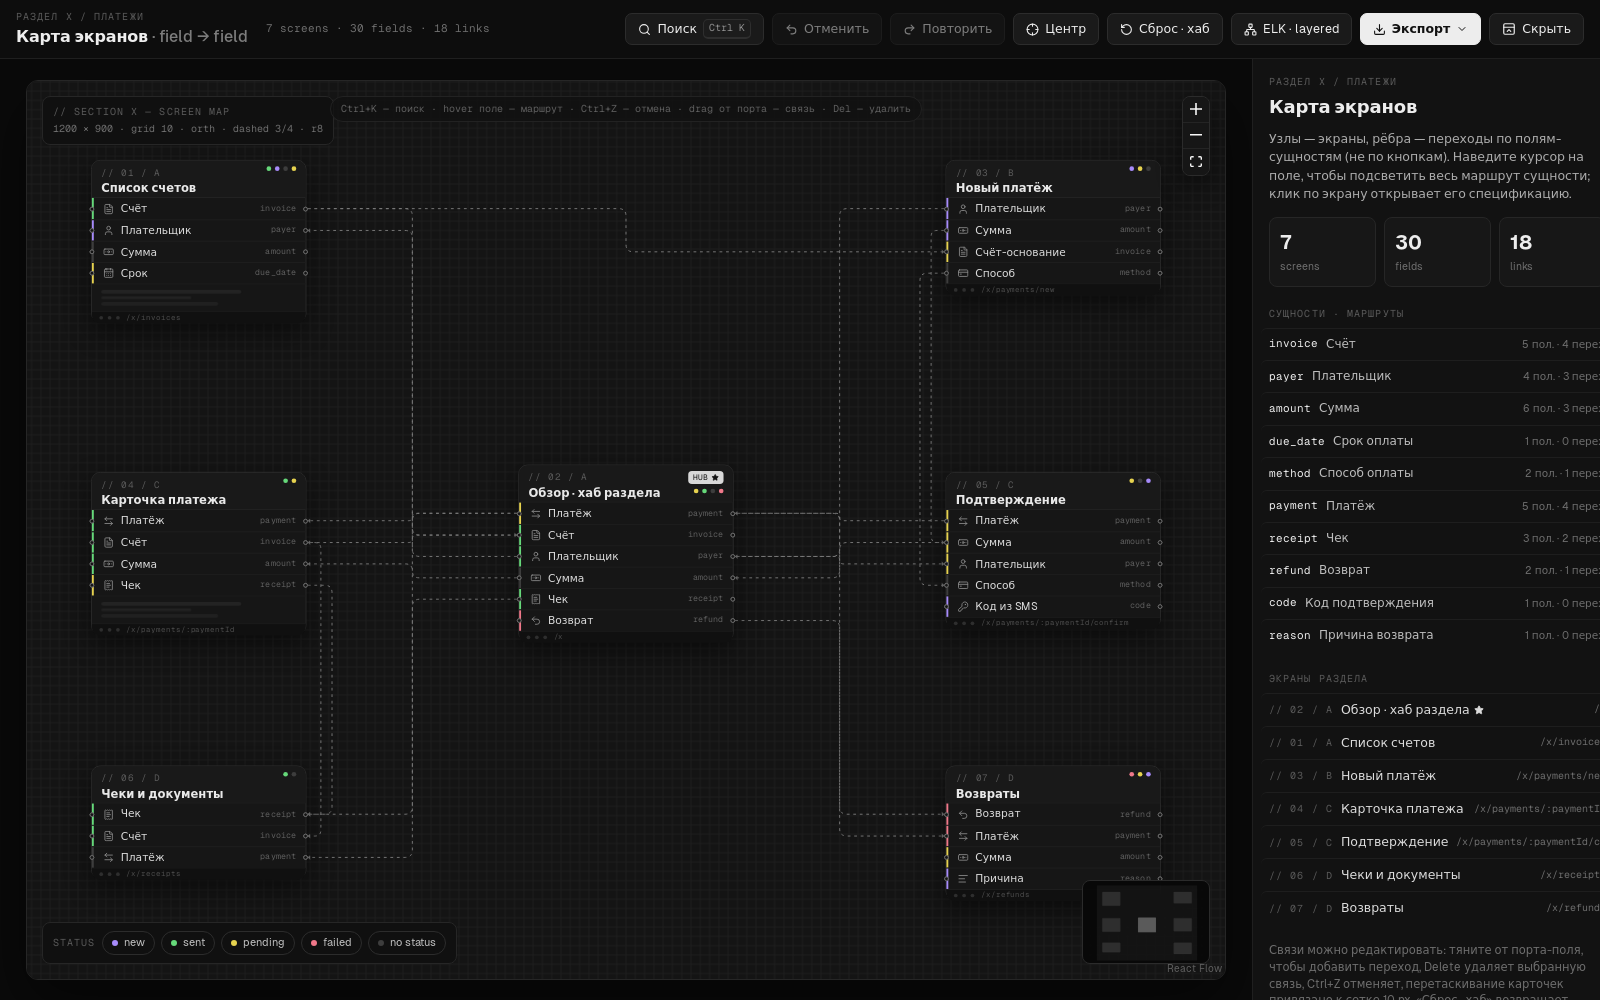
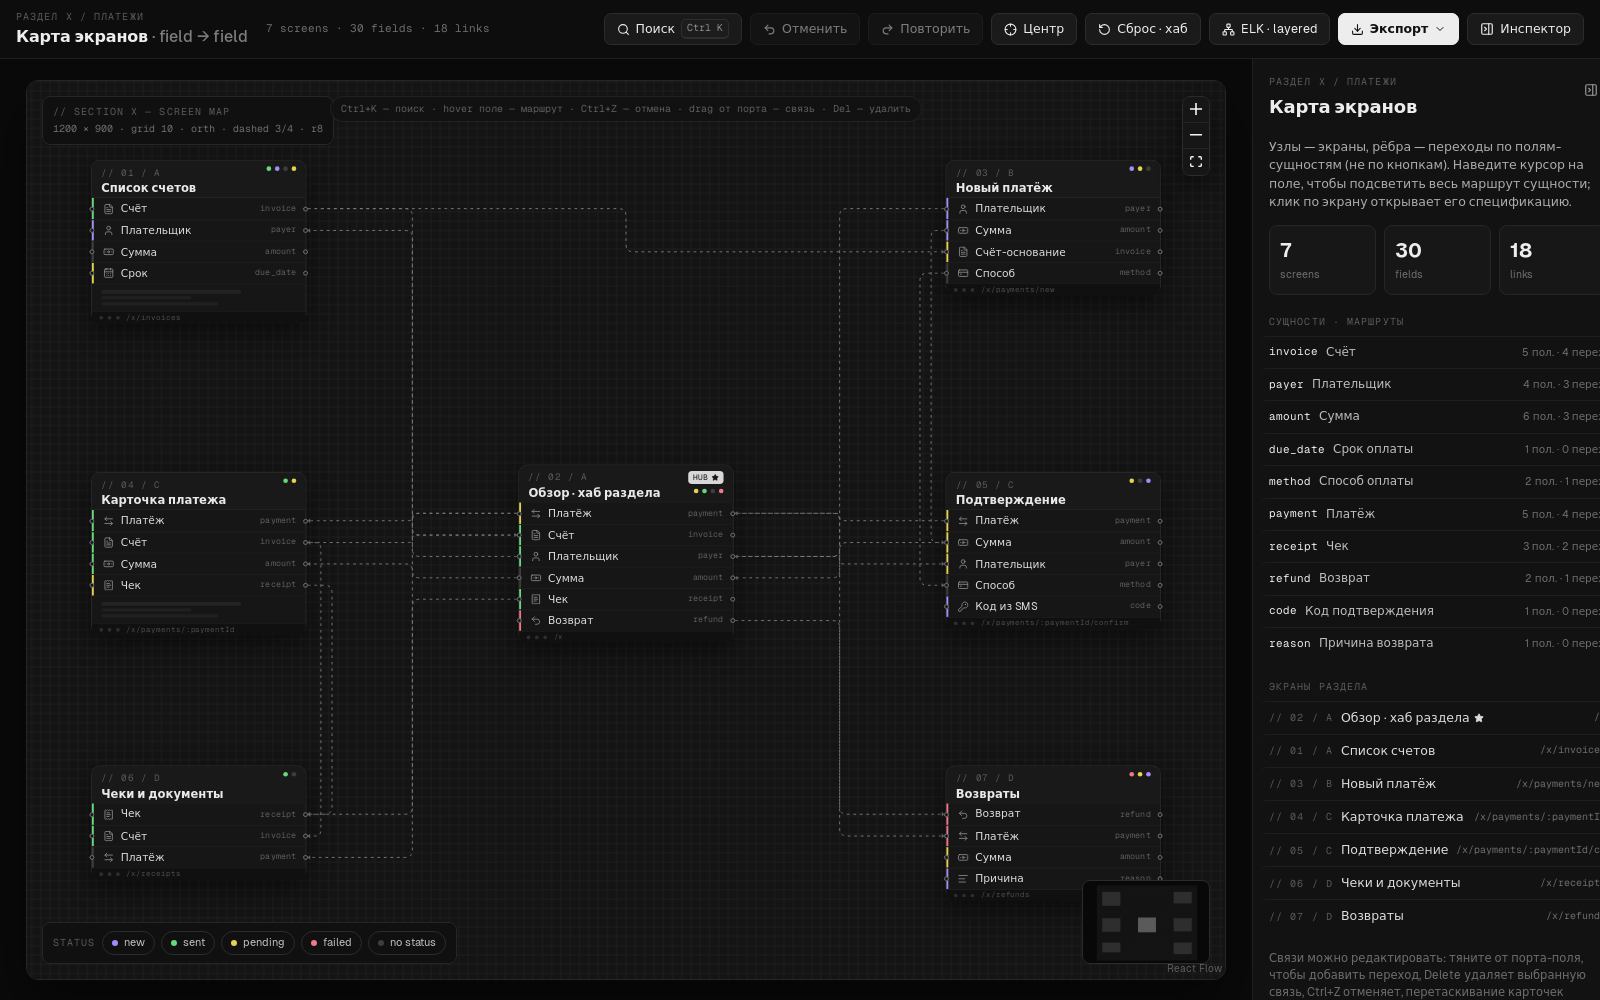
fix(ui): make right inspector collapsible

diff --git a/src/features/screen-map/ui/Toolbar.tsx b/src/features/screen-map/ui/Toolbar.tsx
@@ -8,8 +8,8 @@ import {
   FileBraces,
   Keyboard,
   Network,
-  PanelTopClose,
-  PanelTopOpen,
+  PanelRightClose,
+  PanelRightOpen,
   Redo2,
   RotateCcw,
   Search,
@@ -30,8 +30,8 @@ const FIELDS_TOTAL = SCREENS.reduce((n, s) => n + s.fields.length, 0);
  * @returns the header bar
  */
 export function Toolbar(): ReactElement {
-  const headerVisible = useMapStore((s) => s.headerVisible);
-  const toggleHeader = useMapStore((s) => s.toggleHeader);
+  const inspectorVisible = useMapStore((s) => s.inspectorVisible);
+  const toggleInspector = useMapStore((s) => s.toggleInspector);
   const centerMap = useMapStore((s) => s.centerMap);
   const links = useMapStore((s) => s.edges.length);
   const pinnedEntity = useMapStore((s) => s.pinnedEntity);
@@ -52,19 +52,6 @@ export function Toolbar(): ReactElement {
     const copied = await copyJSON();
     notify(copied ? "JSON скопирован в буфер обмена" : "Не удалось скопировать JSON");
   };
-
-  if (!headerVisible) {
-    return (
-      <button
-        className="btn header-restore"
-        onClick={toggleHeader}
-        aria-label="Показать верхнюю панель"
-        title="Показать верхнюю панель"
-      >
-        <PanelTopOpen size={14} aria-hidden /> Панель
-      </button>
-    );
-  }
 
   return (
     <header className="topbar">
@@ -133,8 +120,15 @@ export function Toolbar(): ReactElement {
             </Menu.Positioner>
           </Menu.Portal>
         </Menu.Root>
-        <button className="btn" onClick={toggleHeader} aria-label="Скрыть верхнюю панель" title="Скрыть верхнюю панель">
-          <PanelTopClose size={14} aria-hidden /> Скрыть
+        <button
+          className="btn inspector-toggle"
+          onClick={toggleInspector}
+          aria-pressed={inspectorVisible}
+          aria-label={inspectorVisible ? "Скрыть правую панель" : "Показать правую панель"}
+          title={inspectorVisible ? "Скрыть правую панель" : "Показать правую панель"}
+        >
+          {inspectorVisible ? <PanelRightClose size={14} aria-hidden /> : <PanelRightOpen size={14} aria-hidden />}
+          Инспектор
         </button>
       </div>
     </header>

diff --git a/src/features/screen-map/model/uiSlice.ts b/src/features/screen-map/model/uiSlice.ts
@@ -2,20 +2,20 @@ import { getFlowInstance } from "./flowRef";
 import { applySilently } from "./history";
 import type { MapSliceCreator, UiSlice } from "./types";
 
-const HEADER_STORAGE_KEY = "screen-map-x:header-visible";
+const INSPECTOR_STORAGE_KEY = "screen-map-x:inspector-visible";
 
-function readHeaderVisible(): boolean {
+function readInspectorVisible(): boolean {
   try {
-    return typeof localStorage === "undefined" || localStorage.getItem(HEADER_STORAGE_KEY) !== "hidden";
+    return typeof localStorage === "undefined" || localStorage.getItem(INSPECTOR_STORAGE_KEY) !== "hidden";
   } catch {
     return true;
   }
 }
 
-function writeHeaderVisible(visible: boolean): void {
+function writeInspectorVisible(visible: boolean): void {
   try {
     if (typeof localStorage !== "undefined") {
-      localStorage.setItem(HEADER_STORAGE_KEY, visible ? "visible" : "hidden");
+      localStorage.setItem(INSPECTOR_STORAGE_KEY, visible ? "visible" : "hidden");
     }
   } catch {
     // Storage can be unavailable in private or restricted browser contexts.
@@ -33,7 +33,7 @@ export const createUiSlice: MapSliceCreator<UiSlice> = (set, get) => {
   };
 
   return {
-    headerVisible: readHeaderVisible(),
+    inspectorVisible: readInspectorVisible(),
     hoverEntity: null,
     pinnedEntity: null,
     statusFilter: null,
@@ -43,11 +43,11 @@ export const createUiSlice: MapSliceCreator<UiSlice> = (set, get) => {
     helpOpen: false,
     contextTarget: null,
 
-    setHeaderVisible: (headerVisible) => {
-      writeHeaderVisible(headerVisible);
-      set({ headerVisible });
+    setInspectorVisible: (inspectorVisible) => {
+      writeInspectorVisible(inspectorVisible);
+      set({ inspectorVisible });
     },
-    toggleHeader: () => get().setHeaderVisible(!get().headerVisible),
+    toggleInspector: () => get().setInspectorVisible(!get().inspectorVisible),
     centerMap: () => {
       void getFlowInstance()?.fitView({ padding: 0.12, maxZoom: 1, duration: 350 });
     },

diff --git a/src/features/screen-map/ui/inspector/InspectorScreen.tsx b/src/features/screen-map/ui/inspector/InspectorScreen.tsx
@@ -1,5 +1,5 @@
 import { useMemo, type ReactElement } from "react";
-import { X } from "../../../../shared/icons";
+import { PanelRightClose, X } from "../../../../shared/icons";
 import { STATUS } from "../../data/status";
 import type { ScreenDef } from "../../data/types";
 import { defOf } from "../../flow/adapter";
@@ -17,6 +17,7 @@ export function InspectorScreen({ screen }: { screen: ScreenDef }): ReactElement
   const activeEntity = useMapStore(selectActiveEntity);
   const setHoverEntity = useMapStore((s) => s.setHoverEntity);
   const setSelected = useMapStore((s) => s.setSelected);
+  const toggleInspector = useMapStore((s) => s.toggleInspector);
   const defs = useMemo(() => edges.map(defOf), [edges]);
   const incoming = defs.filter((e) => e.to.screen === screen.id);
   const outgoing = defs.filter((e) => e.from.screen === screen.id);
@@ -31,9 +32,23 @@ export function InspectorScreen({ screen }: { screen: ScreenDef }): ReactElement
           </div>
           <h2 className="insp-h">{screen.title}</h2>
         </div>
-        <button className="btn btn-ghost insp-close" onClick={() => setSelected(null)} title="Закрыть (клик по холсту)">
-          <X size={13} aria-hidden />
-        </button>
+        <div className="insp-actions">
+          <button
+            className="btn btn-ghost insp-close inspector-collapse"
+            onClick={toggleInspector}
+            aria-label="Скрыть правую панель"
+            title="Скрыть правую панель"
+          >
+            <PanelRightClose size={14} aria-hidden />
+          </button>
+          <button
+            className="btn btn-ghost insp-close"
+            onClick={() => setSelected(null)}
+            title="Закрыть (клик по холсту)"
+          >
+            <X size={13} aria-hidden />
+          </button>
+        </div>
       </div>
 
       <div className="route-chip">{screen.route}</div>

diff --git a/src/features/screen-map/ui/inspector/InspectorOverview.tsx b/src/features/screen-map/ui/inspector/InspectorOverview.tsx
@@ -1,6 +1,6 @@
 import { PreviewCard } from "@base-ui/react/preview-card";
 import { useMemo, type ReactElement } from "react";
-import { Star } from "../../../../shared/icons";
+import { PanelRightClose, Star } from "../../../../shared/icons";
 import { SECTION_PATH } from "../../data/constants";
 import { ENTITY_META } from "../../data/entities";
 import { SCREENS } from "../../data/screens";
@@ -20,6 +20,7 @@ export function InspectorOverview(): ReactElement {
   const setHoverEntity = useMapStore((s) => s.setHoverEntity);
   const togglePin = useMapStore((s) => s.togglePin);
   const focusScreen = useMapStore((s) => s.focusScreen);
+  const toggleInspector = useMapStore((s) => s.toggleInspector);
 
   const defs = useMemo(() => edges.map(defOf), [edges]);
   const fieldsTotal = SCREENS.reduce((n, s) => n + s.fields.length, 0);
@@ -31,8 +32,20 @@ export function InspectorOverview(): ReactElement {
 
   return (
     <>
-      <div className="mono-label">{SECTION_PATH}</div>
-      <h2 className="insp-h">Карта экранов</h2>
+      <div className="insp-top">
+        <div>
+          <div className="mono-label">{SECTION_PATH}</div>
+          <h2 className="insp-h">Карта экранов</h2>
+        </div>
+        <button
+          className="btn btn-ghost insp-close inspector-collapse"
+          onClick={toggleInspector}
+          aria-label="Скрыть правую панель"
+          title="Скрыть правую панель"
+        >
+          <PanelRightClose size={14} aria-hidden />
+        </button>
+      </div>
       <p className="insp-p">
         Узлы — экраны, рёбра — переходы по полям-сущностям (не по кнопкам). Наведите курсор на поле, чтобы подсветить
         весь маршрут сущности; клик по экрану открывает его спецификацию.

diff --git a/src/features/screen-map/hooks/usePaletteActions.ts b/src/features/screen-map/hooks/usePaletteActions.ts
@@ -5,8 +5,8 @@ import {
   FileBraces,
   Keyboard,
   Network,
-  PanelTopClose,
-  PanelTopOpen,
+  PanelRightClose,
+  PanelRightOpen,
   Redo2,
   RotateCcw,
   Undo2,
@@ -35,8 +35,8 @@ export function usePaletteActions(): PaletteAction[] {
   const redo = useMapStore((s) => s.redo);
   const setJsonDialogOpen = useMapStore((s) => s.setJsonDialogOpen);
   const setHelpOpen = useMapStore((s) => s.setHelpOpen);
-  const headerVisible = useMapStore((s) => s.headerVisible);
-  const toggleHeader = useMapStore((s) => s.toggleHeader);
+  const inspectorVisible = useMapStore((s) => s.inspectorVisible);
+  const toggleInspector = useMapStore((s) => s.toggleInspector);
   const centerMap = useMapStore((s) => s.centerMap);
   const { downloadJSON, copyJSON } = useExport();
 
@@ -48,10 +48,10 @@ export function usePaletteActions(): PaletteAction[] {
       run: centerMap,
     },
     {
-      value: "панель заголовок скрыть показать верхняя панель header",
-      label: headerVisible ? "Скрыть верхнюю панель" : "Показать верхнюю панель",
-      icon: headerVisible ? PanelTopClose : PanelTopOpen,
-      run: toggleHeader,
+      value: "инспектор правая панель скрыть показать inspector panel",
+      label: inspectorVisible ? "Скрыть правую панель" : "Показать правую панель",
+      icon: inspectorVisible ? PanelRightClose : PanelRightOpen,
+      run: toggleInspector,
     },
     {
       value: "elk раскладка layered layout",

diff --git a/tests/e2e/screen-map.spec.ts b/tests/e2e/screen-map.spec.ts
@@ -77,12 +77,13 @@ test.describe("section X screen map", () => {
     await expect(page.locator(".react-flow__edge")).toHaveCount(18);
   });
 
-  test("top bar can be hidden and restored while the canvas stays centred", async ({ page }) => {
-    await page.getByRole("button", { name: "Скрыть верхнюю панель" }).click();
-    await expect(page.locator(".app-title")).toHaveCount(0);
+  test("right inspector can be hidden and restored while the canvas stays centred", async ({ page }) => {
+    await expect(page.locator(".app-title")).toContainText("Карта экранов");
+    await expect(page.locator(".inspector .insp-h")).toHaveText("Карта экранов");
 
-    const restore = page.getByRole("button", { name: "Показать верхнюю панель" });
-    await expect(restore).toBeVisible();
+    await page.locator(".inspector-collapse").click();
+    await expect(page.locator(".inspector")).toHaveCount(0);
+    await expect(page.locator(".app-title")).toBeVisible();
 
     const centreDelta = await page.evaluate(() => {
       const scroll = document.querySelector(".canvas-scroll");
@@ -96,7 +97,7 @@ test.describe("section X screen map", () => {
     });
     expect(centreDelta).toBeLessThan(24);
 
-    await restore.click();
-    await expect(page.locator(".app-title")).toContainText("Карта экранов");
+    await page.locator(".inspector-toggle").click();
+    await expect(page.locator(".inspector .insp-h")).toHaveText("Карта экранов");
   });
 });

diff --git a/src/features/screen-map/hooks/useAutoCenter.ts b/src/features/screen-map/hooks/useAutoCenter.ts
@@ -3,7 +3,7 @@ import { useMapStore } from "../model/mapStore";
 
 /**
  * Keep the fixed 1200x900 canvas frame centred in its scroll viewport and
- * fit the graph inside React Flow after mount, header toggles and resizes.
+ * fit the graph inside React Flow after mount, inspector toggles and resizes.
  * @param scrollRef - scrollable canvas viewport element
  * @param frameRef - fixed-size canvas frame element
  */
@@ -12,7 +12,7 @@ export function useAutoCenter(
   frameRef: RefObject<HTMLDivElement | null>,
 ): void {
   const centerMap = useMapStore((s) => s.centerMap);
-  const headerVisible = useMapStore((s) => s.headerVisible);
+  const inspectorVisible = useMapStore((s) => s.inspectorVisible);
 
   useEffect(() => {
     let frame = 0;
@@ -52,5 +52,5 @@ export function useAutoCenter(
       if (resizeTimer !== undefined) window.clearTimeout(resizeTimer);
       window.removeEventListener("resize", onResize);
     };
-  }, [centerMap, frameRef, headerVisible, scrollRef]);
+  }, [centerMap, frameRef, inspectorVisible, scrollRef]);
 }

diff --git a/src/shared/icons.ts b/src/shared/icons.ts
@@ -21,8 +21,8 @@ import FileText from "lucide-react/dist/esm/icons/file-text";
 import KeyRound from "lucide-react/dist/esm/icons/key-round";
 import Keyboard from "lucide-react/dist/esm/icons/keyboard";
 import Network from "lucide-react/dist/esm/icons/network";
-import PanelTopClose from "lucide-react/dist/esm/icons/panel-top-close";
-import PanelTopOpen from "lucide-react/dist/esm/icons/panel-top-open";
+import PanelRightClose from "lucide-react/dist/esm/icons/panel-right-close";
+import PanelRightOpen from "lucide-react/dist/esm/icons/panel-right-open";
 import Pin from "lucide-react/dist/esm/icons/pin";
 import ReceiptText from "lucide-react/dist/esm/icons/receipt-text";
 import Redo2 from "lucide-react/dist/esm/icons/redo-2";
@@ -55,8 +55,8 @@ export {
   KeyRound,
   Keyboard,
   Network,
-  PanelTopClose,
-  PanelTopOpen,
+  PanelRightClose,
+  PanelRightOpen,
   Pin,
   ReceiptText,
   Redo2,

diff --git a/src/features/screen-map/ui/inspector/Inspector.tsx b/src/features/screen-map/ui/inspector/Inspector.tsx
@@ -7,12 +7,17 @@ import { InspectorScreen } from "./InspectorScreen";
 
 /**
  * Right-hand inspector panel in a custom Base UI scroll viewport: screen
- * spec when a screen is selected, section overview otherwise.
- * @returns the inspector region
+ * spec when a screen is selected, section overview otherwise. Returns
+ * nothing while the panel is hidden.
+ * @returns the inspector region or null when hidden
  */
-export function Inspector(): ReactElement {
+export function Inspector(): ReactElement | null {
+  const inspectorVisible = useMapStore((s) => s.inspectorVisible);
   const selectedId = useMapStore((s) => s.selectedId);
   const screen = selectedId ? SCREEN_BY_ID[selectedId] : null;
+
+  if (!inspectorVisible) return null;
+
   return (
     <ScrollArea.Root className="inspector" render={<aside />}>
       <ScrollArea.Viewport className="inspector-viewport">

diff --git a/src/features/screen-map/model/types.ts b/src/features/screen-map/model/types.ts
@@ -33,7 +33,7 @@ export interface GraphSlice extends GraphHistory {
 
 /** UI-owned state and actions: selection, route highlighting, filters and overlays. */
 export interface UiSlice {
-  headerVisible: boolean;
+  inspectorVisible: boolean;
   hoverEntity: string | null;
   pinnedEntity: string | null;
   statusFilter: StatusKey | null;
@@ -42,8 +42,8 @@ export interface UiSlice {
   jsonDialogOpen: boolean;
   helpOpen: boolean;
   contextTarget: ContextTarget | null;
-  setHeaderVisible: (visible: boolean) => void;
-  toggleHeader: () => void;
+  setInspectorVisible: (visible: boolean) => void;
+  toggleInspector: () => void;
   centerMap: () => void;
   setHoverEntity: (entity: string | null) => void;
   togglePin: (entity: string) => void;

diff --git a/src/features/screen-map/model/mapStore.test.ts b/src/features/screen-map/model/mapStore.test.ts
@@ -44,12 +44,12 @@ describe("map store", () => {
     expect(temporal().pastStates).toHaveLength(0);
   });
 
-  it("toggles the top bar visibility", () => {
-    expect(state().headerVisible).toBe(true);
-    state().toggleHeader();
-    expect(state().headerVisible).toBe(false);
-    state().toggleHeader();
-    expect(state().headerVisible).toBe(true);
+  it("toggles the right inspector visibility", () => {
+    expect(state().inspectorVisible).toBe(true);
+    state().toggleInspector();
+    expect(state().inspectorVisible).toBe(false);
+    state().toggleInspector();
+    expect(state().inspectorVisible).toBe(true);
   });
 
   it("tracks hover over pin as the active entity inputs", () => {

diff --git a/src/features/screen-map/ui/HelpDialog.tsx b/src/features/screen-map/ui/HelpDialog.tsx
@@ -15,7 +15,7 @@ const ROWS: [string, string][] = [
   ["Drag карточки", "перестановка по сетке 10 px, линии следуют за полями"],
   ["Клик по холсту", "снять выбор и закрепление"],
   ["Центр", "вписать всю карту и центрировать холст"],
-  ["Иконка панели", "скрыть или показать верхнюю панель"],
+  ["Инспектор", "скрыть или показать правую панель"],
 ];
 
 /**
